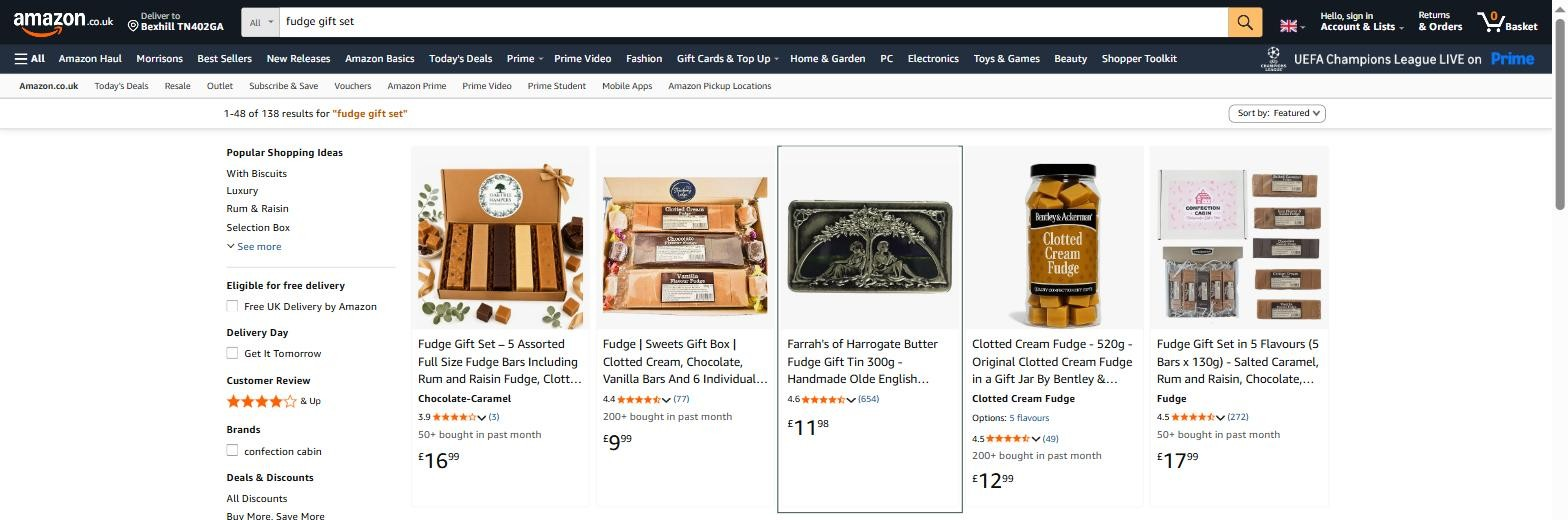
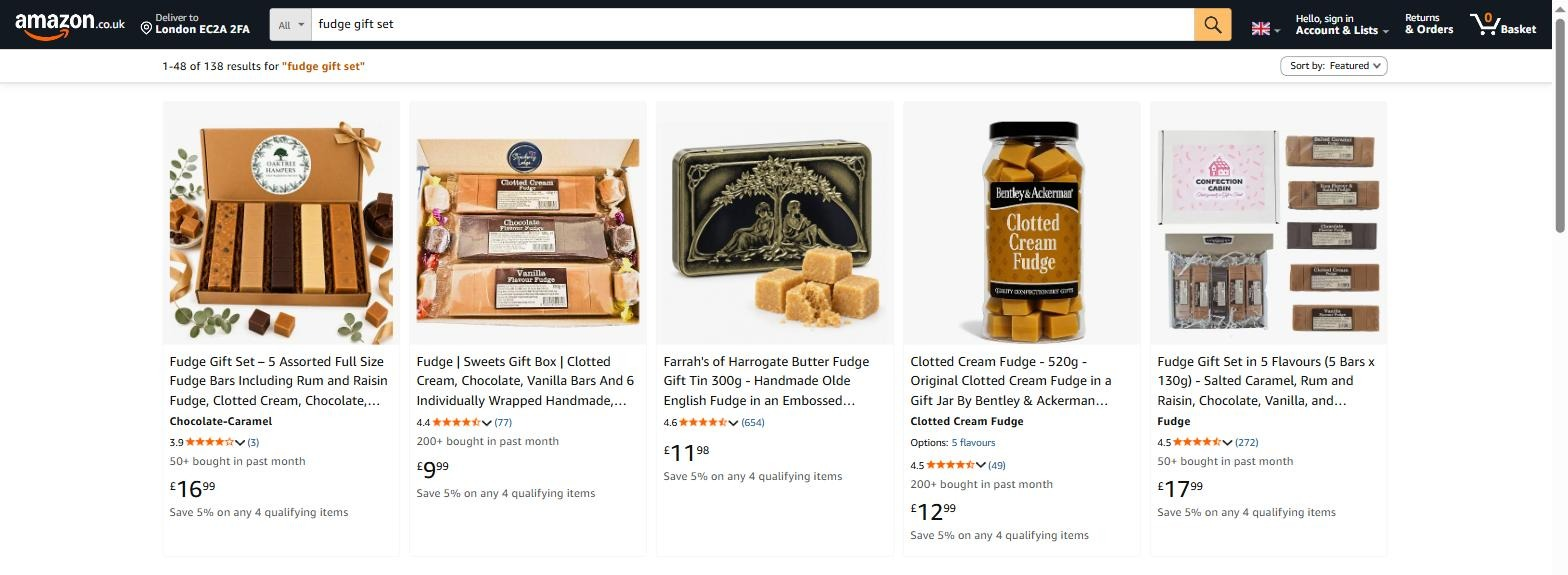
farrahs demo a: real Amazon pages with donor buybox and generated photos, stacked blocks, dense shelf

diff --git a/r/farrahs-demo-a/index.html b/r/farrahs-demo-a/index.html
@@ -140,6 +140,13 @@
     .fifty b{display:block;font-family:var(--display);font-weight:400;font-size:30px;line-height:1;color:var(--ink)}
     .fifty div.in b{color:var(--green)}
     .fifty span{display:block;font-size:12px;color:var(--muted);margin-top:6px;line-height:1.35}
+    .page-block{margin-top:34px}
+    .page-block:first-of-type{margin-top:0}
+    .page-head{display:flex;align-items:center;gap:16px;margin-bottom:12px}
+    .page-num{font-family:var(--display);font-style:italic;font-size:26px;color:#68855a;line-height:1}
+    .page-head h3{font-family:var(--sans);font-size:17px;font-weight:500;margin:0}
+    .page-head p{font-size:12.5px;color:var(--muted);margin:2px 0 0}
+    .page-asin{margin-left:auto;font:11px monospace;color:var(--muted)}
     .shot{position:relative;border:1px solid var(--rule);background:#fff;overflow:hidden;user-select:none}
     .shot img{display:block;width:100%;height:auto}
     .shot .ib-before{position:absolute;inset:0}
@@ -249,35 +256,38 @@
       <div class="example-footer"><p>Rank is the phrase's best weekly position over the year. "Farrah's" and "Harrogate toffee" do not appear in the base: shoppers search the category, not the name, so the category words have to be in the title.</p></div>
 
       <div class="edge">
-        <div class="edge-head"><p class="sub-lede">The shelf for "fudge gift set", with your tin put back on it.</p><p>Amazon UK organic results, 14 September, sponsored tiles and delivery lines removed. Your relisted tin is placed third to compare, not to promise a position: rank follows sales. It brings 654 reviews to a row of 3 to 272.</p></div>
-        <figure class="shot-figure"><img src="img/serp-shelf.jpg" alt="Amazon UK search results for fudge gift set with the Farrah's Butter Fudge tin placed third" loading="lazy" width="1568" height="490"><figcaption>Amazon.co.uk, search "fudge gift set", 14 September 2026. Prices in GBP as listed that day. The outlined tile is illustrative; its price is the tin's last Amazon price, October 2025.</figcaption></figure>
+        <div class="edge-head"><p class="sub-lede">The shelf for "fudge gift set", with your tin put back on it.</p><p>Amazon UK, organic results on 14 September, sponsored tiles and delivery lines taken out. Your relisted tin is placed third to compare, not to promise a position: rank follows sales. It brings 654 reviews to a row of 3 to 272.</p></div>
+        <figure class="shot-figure"><img src="img/serp-shelf.jpg" alt="Amazon UK search results for fudge gift set with the Farrah's Butter Fudge tin placed third" loading="lazy" width="1568" height="575"><figcaption>Amazon.co.uk, search "fudge gift set", 14 September 2026. Prices in GBP as listed that day. The Farrah's tile is illustrative: new main image, new title, the tin's last Amazon price from October 2025.</figcaption></figure>
       </div>
     </div>
   </section>
 
   <!-- 3 · ONE PRODUCT, NOW → RELISTED -->
   <section class="container section" id="product" aria-labelledby="product-title">
-    <div class="section-heading"><div><p class="eyebrow">02 / TWO PAGES, NOW AND RELISTED</p><h2 id="product-title">Two of your pages.<br><em>Drag to see them relisted.</em></h2></div><p>Two real Amazon pages: the fudge tin, your most-reviewed, and the three-tin gift set, one photo and one review. Left: the page as it is today. Right: the same page with the title, offer and images we would file. Drag the handle; switch pages above it.</p></div>
+    <div class="section-heading"><div><p class="eyebrow">02 / TWO PAGES, NOW AND RELISTED</p><h2 id="product-title">Two of your pages.<br><em>Drag to see them relisted.</em></h2></div><p>Two of your real Amazon pages, the fudge tin and the toffee tin. Left, the page as it is today. Right, the same page with the main image, title and offer we would file: everything else is Amazon's own. Drag the handle.</p></div>
 
-    <div class="tabs" role="tablist"><button type="button" class="on" data-tab="fudge" role="tab">Butter Fudge tin · 654 reviews</button><button type="button" data-tab="triple" role="tab">Three-tin gift set · 1 review</button></div>
-    <div class="ba shot" data-ib data-pane="fudge">
-      <img class="ib-after" src="img/after-fudge.jpg" alt="The same Amazon page, relisted: new title, price, Prime, in stock" width="1100" height="560">
-      <img class="ib-before" src="img/before-fudge.jpg" alt="The Amazon page today: currently unavailable" width="1100" height="560">
-      <span class="ba-tag">On Amazon today · B00APYN3TG</span><span class="ba-tag ba-tag-after">Relisted · illustrative</span>
-      <div class="ba-handle" aria-hidden="true"><span></span></div>
-      <input class="ba-range" type="range" min="0" max="100" value="46" aria-label="Drag to compare the page today with the relisted page">
+    <div class="page-block">
+      <div class="page-head"><span class="page-num">01</span><div><h3>Butter Fudge, Art Nouveau tin 300g</h3><p>654 reviews · 4.6 stars · on Amazon since December 2012</p></div><span class="page-asin">B00APYN3TG</span></div>
+      <div class="ba shot" data-ib>
+        <img class="ib-after" src="img/after-fudge.jpg" alt="Butter Fudge, Art Nouveau tin 300g: the same Amazon page relisted, with new main image, title, price and Prime" width="1540" height="690">
+        <img class="ib-before" src="img/before-fudge.jpg" alt="Butter Fudge, Art Nouveau tin 300g: the Amazon page today, currently unavailable" width="1540" height="690">
+        <div class="ba-handle" aria-hidden="true"><span></span></div>
+        <input class="ba-range" type="range" min="0" max="100" value="30" aria-label="Drag to compare the page today with the relisted page">
+      </div>
+      <div class="ba-legend"><span>◀ Today · currently unavailable</span><span>Relisted · illustrative ▶</span></div>
     </div>
-    <div class="ba shot hide" data-ib data-pane="triple">
-      <img class="ib-after" src="img/after-triple.jpg" alt="The same Amazon page, relisted: new title, price, Prime, in stock" width="1100" height="560">
-      <img class="ib-before" src="img/before-triple.jpg" alt="The Amazon page today: currently unavailable" width="1100" height="560">
-      <span class="ba-tag">On Amazon today · B0CJCLPXYF</span><span class="ba-tag ba-tag-after">Relisted · illustrative</span>
-      <div class="ba-handle" aria-hidden="true"><span></span></div>
-      <input class="ba-range" type="range" min="0" max="100" value="46" aria-label="Drag to compare the page today with the relisted page">
+    <div class="page-block">
+      <div class="page-head"><span class="page-num">02</span><div><h3>Harrogate Toffee, Crescent tin 300g</h3><p>140 reviews · 4.3 stars · on Amazon since March 2012</p></div><span class="page-asin">B007N3GU0Q</span></div>
+      <div class="ba shot" data-ib>
+        <img class="ib-after" src="img/after-toffee.jpg" alt="Harrogate Toffee, Crescent tin 300g: the same Amazon page relisted, with new main image, title, price and Prime" width="1290" height="640">
+        <img class="ib-before" src="img/before-toffee.jpg" alt="Harrogate Toffee, Crescent tin 300g: the Amazon page today, currently unavailable" width="1290" height="640">
+        <div class="ba-handle" aria-hidden="true"><span></span></div>
+        <input class="ba-range" type="range" min="0" max="100" value="30" aria-label="Drag to compare the page today with the relisted page">
+      </div>
+      <div class="ba-legend"><span>◀ Today · currently unavailable</span><span>Relisted · illustrative ▶</span></div>
     </div>
-    <div class="ba-legend"><span>◀ Drag: today</span><span>relisted ▶</span></div>
-
     <div class="ba-facts">
-      <div class="facts-today"><span class="micro">WHAT CHANGES</span><div class="data-row"><span>Title</span><strong>trade description → three searched phrases, under 200 characters</strong></div><div class="data-row"><span>Offer</span><strong>none → your own, on FBA</strong></div><div class="data-row"><span>Images</span><strong>6 close-ups, or 1 pack shot → 7 with a purpose</strong></div><div class="data-row"><span>Bullets</span><strong>trade notes → five facts, filed under "Top highlights"</strong></div><div class="data-row"><span>Reviews</span><strong>654 and 1 → kept, on the same pages</strong></div></div>
+      <div class="facts-today"><span class="micro">WHAT CHANGES · BOTH PAGES</span><div class="data-row"><span>Title</span><strong>trade description → three searched phrases, under 200 characters</strong></div><div class="data-row"><span>Offer</span><strong>none → your own, on FBA</strong></div><div class="data-row"><span>Images</span><strong>lid close-ups → tin with the fudge in front, the open tin, the gift moment</strong></div><div class="data-row"><span>Bullets</span><strong>trade notes → five facts, filed under "Top highlights"</strong></div><div class="data-row"><span>Reviews</span><strong>654 and 140 → kept, on the same pages</strong></div></div>
       <div class="facts-after"><span class="micro">WHY THESE WORDS</span><div class="keyword-tags"><span>sweets gift box</span><span>fudge</span><span>fudge gift set</span><span>christmas sweets</span></div><div class="result-deliverables"><div><span aria-hidden="true">✓</span><p><strong>Title from what shoppers type</strong>"Sweets gift box" ranks 329th of 1.46 million and sits in the title word for word; "fudge gift set" and "christmas sweets" go into the bullets and search terms. No word more than twice, as Amazon's rules require.</p></div><div><span aria-hidden="true">✓</span><p><strong>Seven images with a purpose</strong>Tin on white, the open tin, what is inside, the 1910 tin it replicates, gift moment, size against a hand, the range.</p></div><div><span aria-hidden="true">✓</span><p><strong>Same page, same reviews</strong>We relist the existing ASIN under your own seller account, so the 654 reviews and the ranking history stay.</p></div></div></div>
     </div>
 
